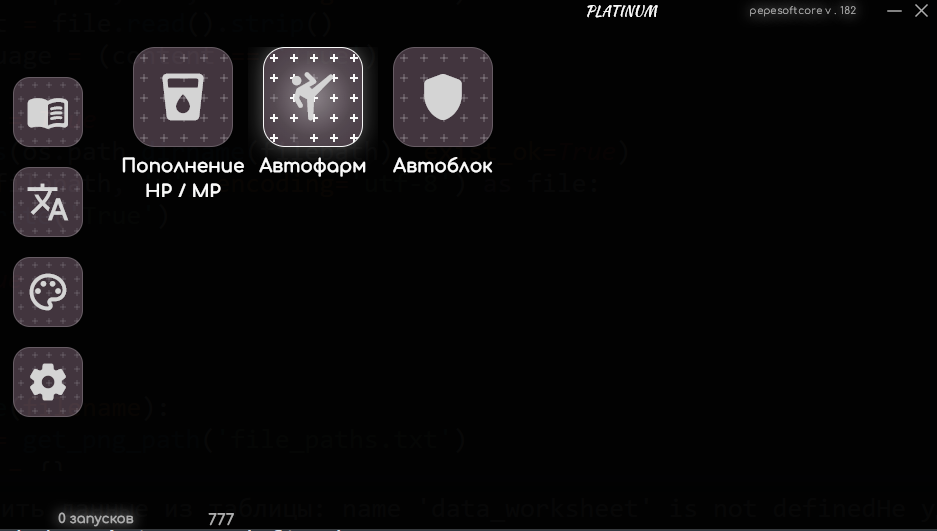
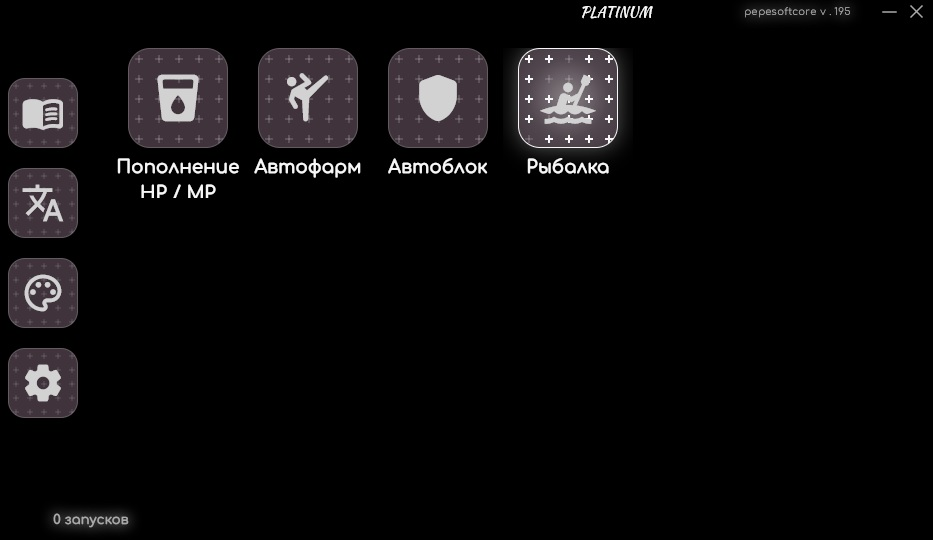
Add files via upload

diff --git a/index.html b/index.html
@@ -2607,10 +2607,10 @@
                 <div class="card block-card" data-sp-img="./tl_pnl.jpg">
                     <div class="card-status"><span class="status-dot"></span> активна</div>
                     <div class="card-image-wrapper">
-                        <img src="./tl2.jpg" alt="Throne and Liberty AutoFarm" class="card-image">
+                        <img src="./tl2.jpg" alt="Throne and Liberty" class="card-image">
                     </div>
                     <div class="card-content">
-                        <h3 class="card-title">Throne and Liberty <br> Auto - Farm</h3>
+                        <h3 class="card-title">Throne and Liberty</h3>
                     </div>
                     <div class="card-buttons">
                         <a href="https://funpay.com/users/21042002/" class="card-btn key-btn" style="flex: 1;"><i class="fas fa-key"></i> Ключ</a>
@@ -2632,6 +2632,7 @@
                     
                     🛡 Автоблок (парирование): автоматический зажим блока при оверхитах и спец-атаках врагов/боссов ⚡ 
 
+                    🐋 Рыбалка: рыбачит за вас, отправляет статистику в телеграмм (указывает время последнего пойманого улова)
                     работает на евро-серверах и на ру серверах (россия)
                     </div>
                 </div>
@@ -2784,6 +2785,86 @@
                     ✅ 🌸 Авто-нажатие E для работ, например, сбор цветов
 
                     ✅ 🔒 Авто-застёгивание ремня безопасности
+                    </div>
+                </div>
+
+                <div class="card block-card" data-sp-img="./calc_pnl.jpg">
+                    <div class="card-status"><span class="status-dot"></span> активна</div>
+                    <div class="card-image-wrapper">
+                        <img src="./calc1.jpg" alt="Calculator" class="card-image">
+                    </div>
+                    <div class="card-content">
+                        <h3 class="card-title">RESELLER CARD</h3>
+                    </div>
+                    <div class="card-buttons">
+                        <a href="https://funpay.com/users/21042002/" class="card-btn key-btn"><i class="fas fa-key"></i> Ключ</a>
+                    </div>
+                    <div class="card-tooltip">
+                    📌учёт сделок и калькулятор прибыли для GTA
+                    Считает, сколько вы купили, продали и заработали.
+                    Записывайте сделки голосом, смотрите графики и держите баланс под контролем! 📊
+
+                    🎙 Голосовой ввод
+
+                    Зажмите микрофон и скажите, например: «купил монохром кепку за 250 тысяч» или «продал машину 1,5 м». Программа сама поймёт название, цену и тип сделки (покупка или продажа). 🗣
+                    Понимает суммы со словами и сокращениями: «тысяча», «к», «м». 🔢
+                    Включите «Добавлять голосом сразу», и сделка запишется без лишних кликов. ⚡
+                    Распознаёт русский и английский. 🇷🇺🇬🇧
+                    Можно выбрать нужный микрофон из списка. 🎧
+
+                    ⌨ Ручной ввод
+
+                    Кнопки «Купил сейчас» 🛒 и «Продал сейчас» 💵.
+                    В поле цены работает калькулятор: можно ввести 120*3+40, и программа сама посчитает. 🧮
+
+                    💳 Карта баланса
+
+                    Красивая карточка с вашим текущим балансом. Он считается сам: стартовая сумма + продажи − покупки. ✨
+                    Баланс можно задать голосом, нажав на микрофон рядом с ним. 🎤
+                    Видно, сколько куплено и продано за месяц, итог за месяц и кольцо «окупилось, %». 🍩
+
+                    🖼 Скриншоты к сделкам
+
+                    Скопируйте скриншот (Win+Shift+S) и нажмите Ctrl+V, и он прикрепится к сделке. 📸
+                    Скриншот сохраняется вместе со сделкой, и его всегда можно открыть. 🗂
+                    Просмотр на весь экран: колесо мыши меняет масштаб, картинку можно двигать, Esc закрывает. 🔍
+
+                    🧠 Умные подсказки по каждой сделке
+
+                    Сравнение с прошлой такой же сделкой: «на 2 000 дороже» 📈 или «на 500 дешевле» 📉.
+                    Для продажи показывается прибыль относительно вашей последней покупки этого предмета. 💎
+
+                    📅 Статистика за день
+
+                    Куплено, продано, итог и число операций за сегодня. ✅
+                    График оборотов по часам. ⏰
+                    Список сегодняшних сделок с удалением лишних. 🗑
+
+                    📈 Статистика за всё время
+
+                    Всего куплено, всего продано, прибыль за всё время. 💰
+                    График покупок и продаж по месяцам. 📆
+                    Топ-5 предметов по оборотам, со средними ценами покупки и продажи и маржой. 🏆
+
+                    📊 Диаграмма продаж и покупок
+
+                    Периоды переключаются одной кнопкой: День · 7 дней · 14 дней · Месяц · Год. 🔄
+                    🔴 покупки и 🟢 продажи рядом, над каждым столбиком виден итог.
+                    При наведении на столбик показывается подсказка с точными суммами. 💬
+                    Под графиком идёт список всех сделок периода, и любую можно удалить из статистики. ❌
+
+                    🧹 Управление данными
+
+                    Любую сделку можно удалить, и статистика пересчитается. ✂
+                    Кнопка «Сбросить всю статистику» в настройках очищает все сделки и скриншоты, а баланс остаётся прежним. Нужно подтвердить двойным нажатием, чтобы не нажать случайно. 🔒
+
+                    🎨 Оформление
+
+                    5 готовых цветовых тем: розовая, красная, зелёная, аква, графит. 🌈
+                    Своя палитра: любой цвет можно выбрать мышкой или ввести HEX-кодом. 🖌
+                    Полупрозрачное окно с размытием фона и плавными анимациями. 💫
+                    Валюта на выбор: ₽ $ € ₸ ₴ Br. 💱
+                    Интерфейс на русском или английском. 🌍
                     </div>
                 </div>
            
